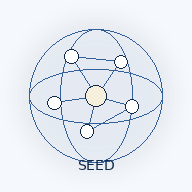
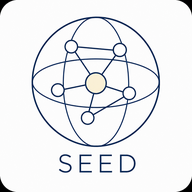
Add files via upload

diff --git a/app.js b/app.js
@@ -4,14 +4,40 @@
   const STORAGE_KEY = "seed-spherical-notes-v1";
   const HINT_KEY = "seed-spherical-hint-v1";
   const MAIN_SIZE = 1.34;
+  const GUIDE_SCALE = 0.50;
+  const MAX_FREE_DISTANCE = 3.40;
   const SIZE_OPTIONS = [0.76, 0.88, 1.0, 1.12];
-  const COLOR_KEYS = ["pearl", "ice", "mist", "silver", "navy"];
+  const COLOR_KEYS = ["pearl", "ice", "mint", "violet", "rose", "cobalt", "silver"];
+  const LEGACY_COLOR_MAP = { mist: "violet", navy: "cobalt" };
   const COLOR_PALETTES = {
-    pearl: { glow: [255, 247, 235], mid: [249, 252, 255], dark: [204, 224, 244], label: [20, 58, 99] },
-    ice:   { glow: [242, 251, 255], mid: [232, 245, 255], dark: [165, 207, 241], label: [22, 66, 112] },
-    mist:  { glow: [247, 249, 255], mid: [240, 244, 255], dark: [180, 196, 225], label: [25, 64, 108] },
-    silver:{ glow: [250, 252, 255], mid: [238, 242, 248], dark: [175, 188, 205], label: [27, 63, 103] },
-    navy:  { glow: [238, 245, 255], mid: [219, 233, 248], dark: [120, 155, 206], label: [22, 58, 100] }
+    pearl: {
+      glow: [255, 252, 232], mid: [255, 224, 137], dark: [198, 139, 49],
+      label: [111, 75, 20]
+    },
+    ice: {
+      glow: [236, 253, 255], mid: [126, 222, 246], dark: [40, 137, 191],
+      label: [18, 83, 126]
+    },
+    mint: {
+      glow: [233, 255, 248], mid: [117, 224, 187], dark: [29, 139, 108],
+      label: [18, 92, 73]
+    },
+    violet: {
+      glow: [250, 242, 255], mid: [202, 158, 237], dark: [106, 65, 173],
+      label: [76, 43, 126]
+    },
+    rose: {
+      glow: [255, 241, 247], mid: [238, 148, 179], dark: [175, 65, 105],
+      label: [119, 38, 72]
+    },
+    cobalt: {
+      glow: [239, 246, 255], mid: [102, 158, 235], dark: [25, 67, 148],
+      label: [18, 54, 112]
+    },
+    silver: {
+      glow: [253, 254, 255], mid: [197, 207, 220], dark: [91, 104, 124],
+      label: [54, 66, 84]
+    }
   };
 
   const canvas = document.getElementById("universe");
@@ -81,7 +107,8 @@
   function randomPosition() {
     const theta = Math.random() * Math.PI * 2;
     const phi = Math.acos(2 * Math.random() - 1);
-    const dist = 0.65 + Math.random() * 0.95; // can exceed guide sphere
+    // Deliberately loose: new SEEDs can begin well outside the guide sphere.
+    const dist = 0.55 + Math.pow(Math.random(), .72) * 2.15;
     return {
       x: Math.sin(phi) * Math.cos(theta) * dist,
       y: Math.sin(phi) * Math.sin(theta) * dist,
@@ -147,6 +174,7 @@
       if (!node.pos || !Number.isFinite(node.pos.x) || !Number.isFinite(node.pos.y) || !Number.isFinite(node.pos.z)) {
         node.pos = randomPosition();
       }
+      node.color = LEGACY_COLOR_MAP[node.color] || node.color;
       if (!COLOR_KEYS.includes(node.color)) node.color = randomColorKey();
       node.size = clampNormalSeedSize(node.size);
       node.createdAt ||= Date.now() + index;
@@ -283,19 +311,28 @@
   function moveNodeInVolume(nodeId, screenX, screenY) {
     const node = data.nodes.find(n => n.id === nodeId);
     if (!node || node.id === data.currentId) return;
-    const currentCamera = rotatePoint(node.pos);
-    const dragBase = Math.max(1, radius * zoom);
-    let px = (screenX - cx) / dragBase;
-    let py = (screenY - cy) / dragBase;
-    px = Math.max(-1.8, Math.min(1.8, px));
-    py = Math.max(-1.8, Math.min(1.8, py));
 
-    let pz = currentCamera.z;
-    pz = Math.max(-1.55, Math.min(1.55, pz));
-    const world = inverseRotatePoint({ x: px, y: py, z: pz });
+    const currentCamera = rotatePoint(node.pos);
+    const depth = Math.max(-2.60, Math.min(2.60, currentCamera.z));
+    const perspective = 3.2 / (4.4 - depth);
+    const projectionBase = Math.max(1, radius * zoom * perspective);
+
+    // Map the finger position back into the 3D volume.
+    // The node may sit far outside the visual guide sphere.
+    let px = (screenX - cx) / projectionBase;
+    let py = (screenY - cy) / projectionBase;
+    px = Math.max(-3.20, Math.min(3.20, px));
+    py = Math.max(-3.20, Math.min(3.20, py));
+
+    const world = inverseRotatePoint({ x: px, y: py, z: currentCamera.z });
     const dist = Math.hypot(world.x, world.y, world.z) || 1;
-    const scale = dist > 1.85 ? 1.85 / dist : 1;
-    node.pos = { x: world.x * scale, y: world.y * scale, z: world.z * scale };
+    const fit = dist > MAX_FREE_DISTANCE ? MAX_FREE_DISTANCE / dist : 1;
+
+    node.pos = {
+      x: world.x * fit,
+      y: world.y * fit,
+      z: world.z * fit
+    };
     gesture.nodeMoveDirty = true;
   }
 
@@ -311,13 +348,18 @@
         projected: { x: 0, y: 0, z: 0 }
       };
     }
+
     const p = rotatePoint(node.pos);
-    const perspective = 3.0 / (4.35 - p.z);
+    const depth = Math.max(-2.60, Math.min(2.60, p.z));
+    // Stronger near/far difference. A front planet may visually exceed the sun.
+    const perspective = 3.2 / (4.4 - depth);
+
     return {
       node,
       x: cx + p.x * radius * perspective * zoom,
       y: cy + p.y * radius * perspective * zoom,
       z: p.z,
+      depth,
       scale: perspective,
       core: false,
       projected: p
@@ -363,7 +405,7 @@
       ctx.fill();
     });
 
-    const guideRadius = radius * zoom;
+    const guideRadius = radius * zoom * GUIDE_SCALE;
     const guideFade = Math.max(.025, .07 / Math.max(.75, zoom));
 
     const halo = ctx.createRadialGradient(cx, cy, guideRadius * .42, cx, cy, guideRadius * 1.26);
@@ -440,37 +482,46 @@
     return text.length > max ? text.slice(0, max - 1) + "…" : text;
   }
 
-  function drawPlanet(x, y, r, palette, glowBoost = 1, core = false) {
+  function drawPlanet(x, y, r, palette, depthAlpha = 1, depthStrength = 1, core = false) {
     ctx.save();
-    const glow = ctx.createRadialGradient(x - r * .28, y - r * .3, r * .1, x, y, r * 1.7);
-    glow.addColorStop(0, rgba(palette.glow, core ? .92 : .72));
-    glow.addColorStop(.5, rgba(palette.mid, core ? .30 * glowBoost : .16 * glowBoost));
+    ctx.globalAlpha = core ? 1 : depthAlpha;
+
+    const glow = ctx.createRadialGradient(
+      x - r * .28, y - r * .30, r * .08,
+      x, y, r * (core ? 1.82 : 1.62)
+    );
+    glow.addColorStop(0, rgba(palette.glow, core ? .98 : .84));
+    glow.addColorStop(.48, rgba(palette.mid, core ? .34 : .18 + depthStrength * .12));
     glow.addColorStop(1, "rgba(255,255,255,0)");
     ctx.fillStyle = glow;
     ctx.beginPath();
-    ctx.arc(x, y, r * 1.7, 0, Math.PI * 2);
+    ctx.arc(x, y, r * (core ? 1.82 : 1.62), 0, Math.PI * 2);
     ctx.fill();
 
-    ctx.shadowColor = core ? "rgba(76,142,206,.52)" : "rgba(81,137,196,.22)";
-    ctx.shadowBlur = core ? 24 : 8;
+    ctx.shadowColor = core
+      ? "rgba(76,142,206,.56)"
+      : `rgba(${palette.dark[0]},${palette.dark[1]},${palette.dark[2]},${.10 + depthStrength * .30})`;
+    ctx.shadowBlur = core ? 25 : 4 + depthStrength * 12;
 
-    const body = ctx.createRadialGradient(x - r * .35, y - r * .35, r * .12, x, y, r);
-    body.addColorStop(0, rgba(palette.glow, .98));
-    body.addColorStop(.58, rgba(palette.mid, .96));
-    body.addColorStop(1, rgba(palette.dark, .95));
+    const body = ctx.createRadialGradient(x - r * .36, y - r * .38, r * .10, x, y, r);
+    body.addColorStop(0, rgba(palette.glow, .99));
+    body.addColorStop(.52, rgba(palette.mid, .97));
+    body.addColorStop(1, rgba(palette.dark, .88 + depthStrength * .12));
     ctx.fillStyle = body;
     ctx.beginPath();
     ctx.arc(x, y, r, 0, Math.PI * 2);
     ctx.fill();
 
     ctx.shadowColor = "transparent";
-    ctx.strokeStyle = core ? "rgba(18,65,108,.90)" : "rgba(25,68,111,.28)";
-    ctx.lineWidth = core ? 1.3 : 1;
+    ctx.strokeStyle = core
+      ? "rgba(18,65,108,.92)"
+      : rgba(palette.dark, .30 + depthStrength * .62);
+    ctx.lineWidth = core ? 1.35 : .75 + depthStrength * .55;
     ctx.stroke();
 
     if (core) {
-      ctx.strokeStyle = "rgba(125,188,231,.62)";
-      ctx.lineWidth = .8;
+      ctx.strokeStyle = "rgba(125,188,231,.68)";
+      ctx.lineWidth = .85;
       ctx.beginPath();
       ctx.arc(x, y, r * .78, 0, Math.PI * 2);
       ctx.stroke();
@@ -478,9 +529,9 @@
     ctx.restore();
   }
 
-  function drawLabel(p, title, mode, palette) {
+  function drawLabel(p, title, mode, palette, depthAlpha, depthStrength) {
     const radiusPx = p.renderRadius;
-    const labelAlpha = p.core ? .96 : (.42 + Math.max(0, p.z) * .20);
+    const labelAlpha = p.core ? .98 : Math.max(.08, depthAlpha * (.56 + depthStrength * .44));
     const textSize = p.core ? 15 : (mode === 1 ? 11 : 12.5);
     ctx.font = `${p.core ? 650 : 560} ${textSize}px -apple-system, BlinkMacSystemFont, "Hiragino Sans", sans-serif`;
     const textW = ctx.measureText(title).width;
@@ -490,13 +541,13 @@
 
     ctx.save();
     ctx.globalAlpha = labelAlpha;
-    ctx.strokeStyle = rgba(palette.label, p.core ? .34 : .24);
-    ctx.lineWidth = .95;
+    ctx.strokeStyle = rgba(palette.label, p.core ? .38 : .18 + depthStrength * .30);
+    ctx.lineWidth = .80 + depthStrength * .30;
     ctx.beginPath();
     ctx.ellipse(p.x + radiusPx * .42, p.y, ringW / 2, ringH / 2, 0, 0, Math.PI * 2);
     ctx.stroke();
 
-    ctx.fillStyle = rgba(palette.label, p.core ? .96 : .88);
+    ctx.fillStyle = rgba(palette.label, p.core ? .98 : .50 + depthStrength * .50);
     ctx.textAlign = "left";
     ctx.textBaseline = "middle";
     ctx.fillText(title, p.x + radiusPx + 12, p.y);
@@ -505,52 +556,74 @@
     const hitY = p.y - Math.max(radiusPx, 18);
     const hitW = ringW * .72 + radiusPx;
     const hitH = Math.max(32, ringH + 18);
-    p.hit = {
-      x: hitX,
-      y: hitY,
-      w: hitW,
-      h: hitH,
-      r: Math.max(radiusPx, hitH / 2)
-    };
+    p.hit = { x: hitX, y: hitY, w: hitW, h: hitH, r: Math.max(radiusPx, hitH / 2) };
     ctx.restore();
   }
 
   function drawNode(p, time) {
     const node = p.node;
     const palette = COLOR_PALETTES[node.color] || COLOR_PALETTES.ice;
-    const frontness = (p.z + 1.8) / 3.6;
     const dense = data.nodes.length >= 42;
-    const baseRadius = p.core
-      ? 22 + Math.sin(time * .0022) * 1.2
-      : (7.6 + Math.max(-1.2, p.z) * 1.2) * (node.size || 1) * (0.92 + zoom * .08) * p.scale;
 
-    const renderRadius = Math.max(p.core ? 18 : 4.2, Math.min(p.core ? 26 : 17, baseRadius));
+    const depthNorm = p.core
+      ? .62
+      : Math.max(0, Math.min(1, ((p.depth ?? p.z) + 2.60) / 5.20));
+    const depthStrength = Math.pow(depthNorm, .88);
+    const depthAlpha = p.core ? 1 : .14 + depthStrength * .86;
+
+    const zoomSize = Math.pow(Math.max(.34, zoom), .17);
+    const baseRadius = p.core
+      ? 21.5 + Math.sin(time * .0022) * 1.15
+      : 11.8 * (node.size || 1) * p.scale * zoomSize;
+
+    // Front planets can become larger than the centered main SEED.
+    const renderRadius = p.core
+      ? Math.max(18, Math.min(25, baseRadius))
+      : Math.max(3.2, Math.min(34, baseRadius));
+
     p.renderRadius = renderRadius;
 
-    drawPlanet(p.x, p.y, renderRadius, palette, p.core ? 1.5 : 1, p.core);
+    drawPlanet(
+      p.x,
+      p.y,
+      renderRadius,
+      palette,
+      depthAlpha,
+      depthStrength,
+      p.core
+    );
 
     let mode = 2;
     if (!p.core) {
-      if (zoom < .92 || (dense && zoom < 1.30 && p.z < .55)) {
+      const farBack = (p.depth ?? p.z) < -0.55;
+      if (
+        zoom < .92 ||
+        farBack ||
+        (dense && zoom < 1.35 && (p.depth ?? p.z) < .62)
+      ) {
         mode = 0;
-      } else if (zoom < 1.65 || (dense && p.z < .08)) {
+      } else if (
+        zoom < 1.70 ||
+        (dense && (p.depth ?? p.z) < .12)
+      ) {
         mode = 1;
       }
     }
 
     if (mode === 0) {
+      const hitRadius = Math.max(15, renderRadius + 7);
       p.hit = {
-        x: p.x - 16,
-        y: p.y - 16,
-        w: 32,
-        h: 32,
-        r: 16
+        x: p.x - hitRadius,
+        y: p.y - hitRadius,
+        w: hitRadius * 2,
+        h: hitRadius * 2,
+        r: hitRadius
       };
       return;
     }
 
     const title = truncateText(node.title || "SEED", p.core ? 18 : (mode === 1 ? 9 : 18));
-    drawLabel(p, title, mode, palette);
+    drawLabel(p, title, mode, palette, depthAlpha, depthStrength);
   }
 
   function render(time = 0) {
@@ -874,7 +947,7 @@
 
   if ("serviceWorker" in navigator) {
     window.addEventListener("load", () => {
-      navigator.serviceWorker.register("./service-worker.js?v=05").catch(() => {});
+      navigator.serviceWorker.register("./service-worker.js?v=06").catch(() => {});
     });
   }
 })();

diff --git a/index.html b/index.html
@@ -10,7 +10,7 @@
   <title>SEED — Spherical Notes</title>
   <link rel="manifest" href="./manifest.webmanifest">
   <link rel="apple-touch-icon" href="./icon-192.png">
-  <link rel="stylesheet" href="./style.css?v=04">
+  <link rel="stylesheet" href="./style.css?v=06">
 </head>
 <body>
   <main id="app" aria-label="SEED spherical notes">
@@ -50,11 +50,13 @@
           <label>
             <span>色</span>
             <select id="seedColor">
-              <option value="pearl">Pearl</option>
-              <option value="ice">Ice</option>
-              <option value="mist">Mist</option>
+              <option value="pearl">Pearl Gold</option>
+              <option value="ice">Ice Blue</option>
+              <option value="mint">Mint</option>
+              <option value="violet">Violet</option>
+              <option value="rose">Rose</option>
+              <option value="cobalt">Cobalt</option>
               <option value="silver">Silver</option>
-              <option value="navy">Navy</option>
             </select>
           </label>
           <label>
@@ -110,6 +112,6 @@
 
     <div id="toast" class="toast" role="status" aria-live="polite"></div>
   </main>
-  <script src="./app.js?v=05"></script>
+  <script src="./app.js?v=06"></script>
 </body>
 </html>

diff --git a/service-worker.js b/service-worker.js
@@ -1,9 +1,9 @@
-const CACHE = "seed-spherical-v05";
+const CACHE = "seed-spherical-v06";
 const ASSETS = [
   "./",
   "./index.html",
-  "./style.css?v=05",
-  "./app.js?v=05",
+  "./style.css?v=06",
+  "./app.js?v=06",
   "./manifest.webmanifest",
   "./icon-192.png",
   "./icon-512.png"

diff --git a/README.md b/README.md
@@ -46,3 +46,15 @@
 - 通常SEEDの色をランダム生成、編集画面から変更可能
 - 通常SEEDのサイズをランダム生成、編集画面から変更可能
 - 通常SEEDのサイズ上限はメインSEED未満
+
+
+## v0.6
+
+- 採用済みの新SEEDアイコンへ差し替え
+- 背景ガイド球の初期サイズをv0.5の約半分へ縮小
+- 通常SEEDの自由移動可能範囲をさらに拡大
+- 新規SEEDの初期配置もより無造作・広範囲に変更
+- 惑星色を7種類へ増加し、色差を大きく調整
+- 手前ほど濃く・鮮明、奥ほど薄く・霞む表示へ強化
+- 前後によるサイズ差を大幅に強化
+- 手前に来た通常SEEDは見かけ上メインSEEDより大きく表示可能
